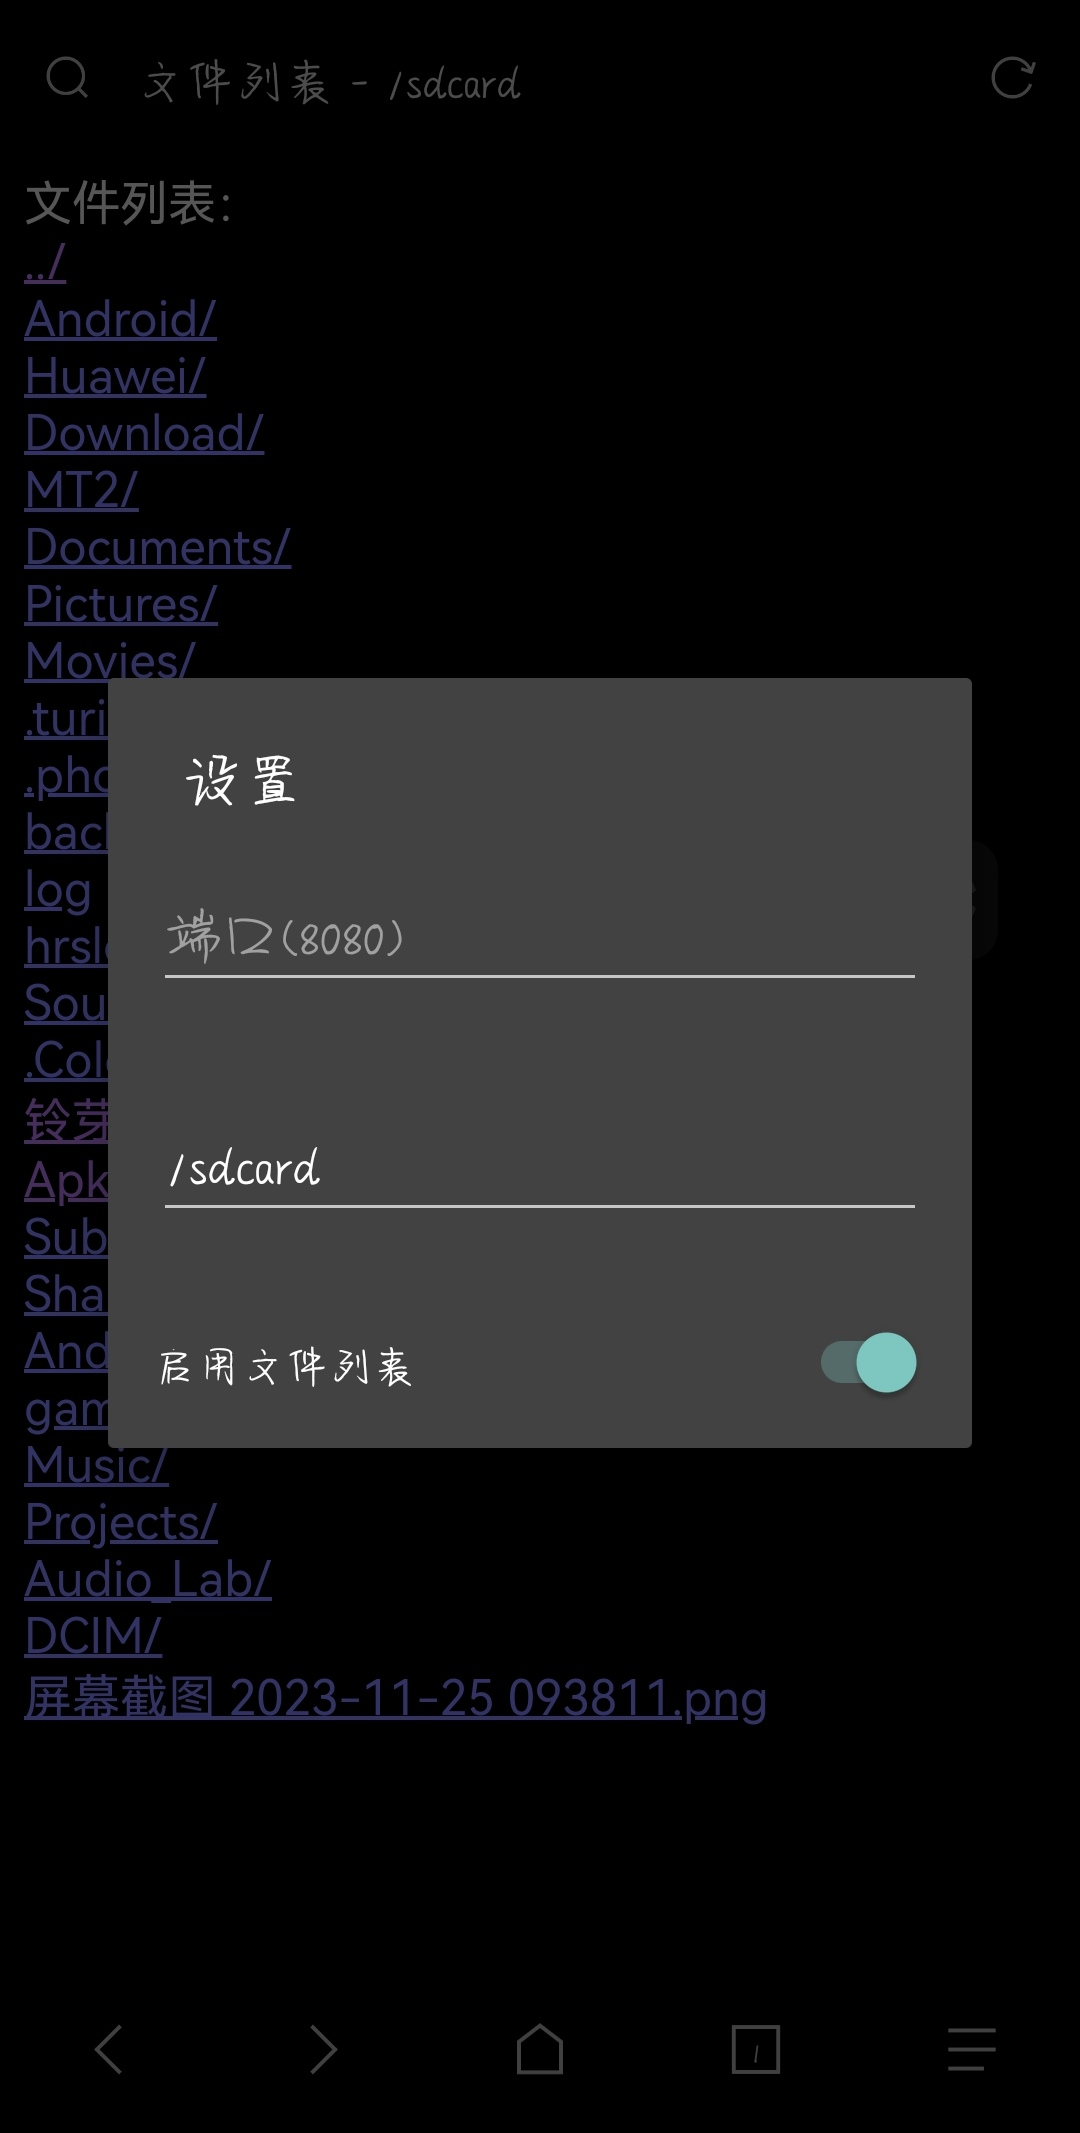
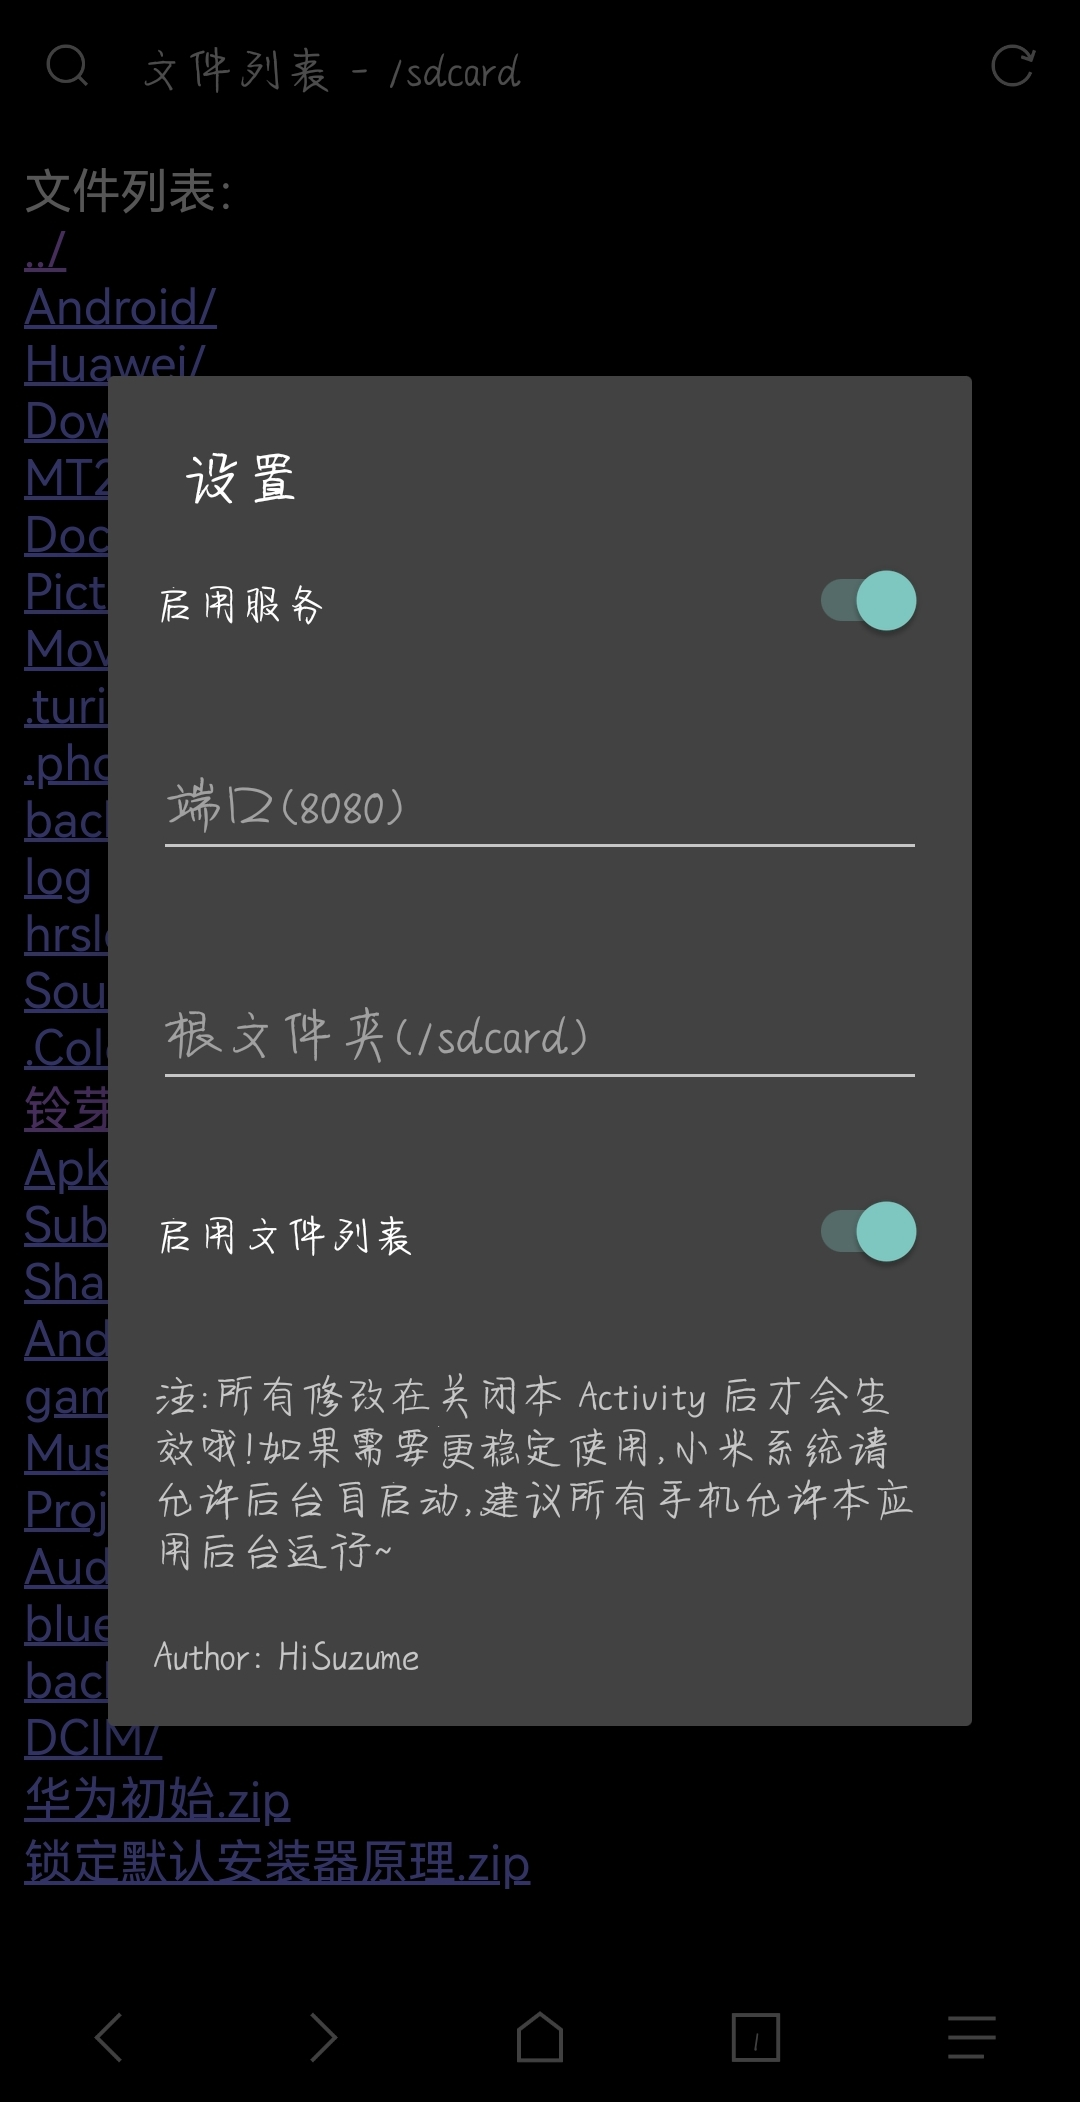
优化Service开关以及操作面板

diff --git a/app/src/main/java/github/hisuzume/httpd/HttpdService.java b/app/src/main/java/github/hisuzume/httpd/HttpdService.java
@@ -13,8 +13,12 @@ import android.widget.Toast;
 
 public class HttpdService extends Service {
 
-	private boolean isstarted = false;
+	private static boolean isstarted = false;
 	private Httpd httpd;
+	
+	public static boolean isRunning() {
+		return isstarted;
+	}
 
 	@Override
 	public IBinder onBind(Intent intent) {
@@ -35,7 +39,7 @@ public class HttpdService extends Service {
 			// 初始化通知渠道
 			NotificationChannel nc = new NotificationChannel("service_running", "Httpd is running",
 					NotificationManager.IMPORTANCE_LOW);
-			nc.setDescription("使 Httpd 能够在后台运行，若关闭，不能保证在所有系统上维持运行。");
+			nc.setDescription("按道理来说只要允许后台运行和自启动都无所谓，如果被杀后台了，请尝试显示此通知！");
 			// 注册渠道
 			((NotificationManager) getSystemService(Context.NOTIFICATION_SERVICE)).createNotificationChannel(nc);
 			nb = new Notification.Builder(this, "service_running");
@@ -51,7 +55,7 @@ public class HttpdService extends Service {
 
 		nb.setContentTitle("Httpd 正在运行");
 
-		nb.setContentText("正在托管 " + path + " 到端口 " + port + "，点击以打开设置～");
+		nb.setContentText("正在托管文件夹 " + path + " 到端口 " + port + "～");
 
 		nb.setContentIntent(PendingIntent.getActivity(this,0,new Intent(this,SettingsActivity.class),PendingIntent.FLAG_UPDATE_CURRENT));
 	
@@ -66,8 +70,9 @@ public class HttpdService extends Service {
 
 		try {
 			httpd.start();
+			Toast.makeText(this, "Httpd 已启动～", Toast.LENGTH_SHORT).show();
 		} catch (Exception e) {
-			Toast.makeText(this, "启动服务失败！" + e.getMessage(), Toast.LENGTH_LONG).show();
+			Toast.makeText(this, "启动 Httpd 失败！" + e.getMessage(), Toast.LENGTH_LONG).show();
 		}
 	}
 

diff --git a/app/src/main/java/github/hisuzume/httpd/SettingsActivity.java b/app/src/main/java/github/hisuzume/httpd/SettingsActivity.java
@@ -1,6 +1,8 @@
 package github.hisuzume.httpd;
 
+import android.Manifest;
 import android.app.Activity;
+import android.os.Build;
 import android.content.Intent;
 import android.os.Bundle;
 import android.widget.EditText;
@@ -12,6 +14,7 @@ public class SettingsActivity extends Activity {
 	private EditText e_port;
 	private EditText e_rootDir;
 	private Switch s_enableFileList;
+	private Switch s_enableService;
 
 	@Override
 	protected void onCreate(Bundle arg0) {
@@ -34,6 +37,14 @@ public class SettingsActivity extends Activity {
 		s_enableFileList = findViewById(R.id.enableFileList);
 		
 		s_enableFileList.setChecked("true".equals(sdm.get("enableFileList","false")));
+		
+		s_enableService = findViewById(R.id.enableService);
+		
+		s_enableService.setChecked(HttpdService.isRunning());
+		
+		// 申请读取文件权限
+		if (Build.VERSION.SDK_INT >= 23)
+			requestPermissions(new String[] { Manifest.permission.READ_EXTERNAL_STORAGE, }, 0);
 	}
 
 	@Override
@@ -44,9 +55,11 @@ public class SettingsActivity extends Activity {
 		sdm.set("rootDir", e_rootDir.getText().toString());
 		sdm.set("enableFileList",s_enableFileList.isChecked() == true ? "true" : "false");
 		
+		// 并不会引发错误，安心使用
 		stopService(new Intent(this,HttpdService.class));
 		
-		startForegroundService(new Intent(this,HttpdService.class));
+		if(s_enableService.isChecked())
+			startForegroundService(new Intent(this,HttpdService.class));
 	}
 
 }

diff --git a/app/src/main/java/github/hisuzume/httpd/Httpd.java b/app/src/main/java/github/hisuzume/httpd/Httpd.java
@@ -8,6 +8,7 @@ import java.io.File;
 import java.io.FileInputStream;
 import java.io.InputStream;
 import java.io.RandomAccessFile;
+import java.util.concurrent.Executors;
 
 public class Httpd extends NanoHTTPD {
 	private String rootDir;
@@ -95,7 +96,8 @@ public class Httpd extends NanoHTTPD {
 	}
 
 	@Override
-	public NanoHTTPD.Response serve(NanoHTTPD.IHTTPSession req) {
+	public NanoHTTPD.Response serve(final NanoHTTPD.IHTTPSession req) {
+		
 		try {
 			File reqFile = new File(rootDir + req.getUri());
 
@@ -127,7 +129,7 @@ public class Httpd extends NanoHTTPD {
 					}
 					// 返回文件列表
 					return newFixedLengthResponse(Response.Status.OK, "text/html",
-							"<html><head><meta name='viewport' content='width=device-width, initial-scale=1.0'><title>文件列表 - "
+							"<html><head><meta name='viewport' content='width=device-width, initial-scale=1.0'><meta charset='utf-8'><title>文件列表 - "
 									+ reqFile + "</title></head><body><h>文件列表：</h><br/>" + inside + "</body></html>");
 				} else
 					//报告错误信息
@@ -145,6 +147,7 @@ public class Httpd extends NanoHTTPD {
 
 				FileInputStream reqFileInput = new FileInputStream(reqFile);
 
+				// 计算文件读取的起始点以及长度
 				long fileLength = reqFile.length();
 				long startRange = 0;
 				long endRange = fileLength - 1;

diff --git a/app/src/main/java/github/hisuzume/httpd/MainActivity.java b/app/src/main/java/github/hisuzume/httpd/MainActivity.java
@@ -12,11 +12,15 @@ public class MainActivity extends Activity {
 	protected void onCreate(Bundle savedInstanceState) {
 		super.onCreate(savedInstanceState);
 
-		startForegroundService(new Intent(this, HttpdService.class));
+		// startForegroundService(new Intent(this, HttpdService.class));
 
 		// 动态权限申请
 		if (Build.VERSION.SDK_INT >= 23)
 			requestPermissions(new String[] { Manifest.permission.READ_EXTERNAL_STORAGE, }, 0);
+
+		// startActivity(new I)
+				
+		// 不Alias了
 
 		finish();
 	}

diff --git a/readme.md b/readme.md
@@ -1,19 +1,11 @@
 ### Android Httpd
 
-一个基于 [NanoHttpd](https://github.com/NanoHttpd/nanohttpd/) 的静态网页服务软件，适用于前端的离线调试、前后端分离等。
+一个基于 [NanoHttpd](https://github.com/NanoHttpd/nanohttpd/) 的静态网页服务软件，适用于前端（静态）与后端分离测试等。
 
 #### 预览
 
-![软件设置截图](preview.jpg)
+![软件设置截图，包含路径、端口以及是否需要启用文件列表](preview.jpg)
 
-#### 编译
-
-本项目使用 [CodeAssist](https://github.com/tyron12233/CodeAssist/) 进行开发，理论上其他 IDE 也能直接编译。
-
-如果使用其他 IDE 且无法打开，我也无能为力，实在抱歉！
-
-#### 授权
-
-**注：本项目使用 MIT License 开源，但我不建议将本项目用于商业用途。**
+#### 开源许可
 
 [NanoHttpd](https://github.com/NanoHttpd/nanohttpd/) - BSD-3-Clause license
